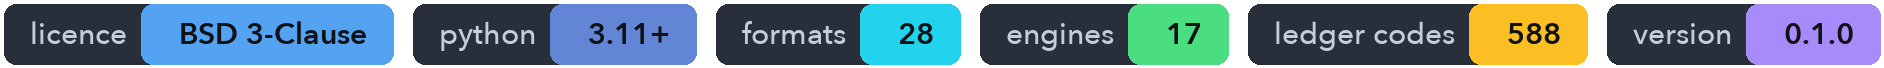
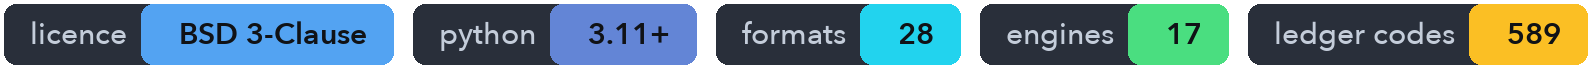
docs for a PyPI audience: install, changelog, contributing, a complete catalogue
The README tells a stranger to pip install lattix, says which two things the base install
does not do and why, and links its images by absolute URL so the PyPI project page renders
them. The tutorial no longer names a local wheel file or claims a scipy dependency the
package does not have. The citation file points at the organisation's repository.

CHANGELOG.md records 0.1.0 and everything since, in Keep a Changelog form; the release
workflow reads a version's section for the GitHub release body. CONTRIBUTING.md is short:
the engine-free suite, the engine variables, the ledger contract, goldens, the battery, and
that engine bugs go upstream.

The fidelity catalogue scanner now recognises a ledger entry built directly by keyword,
which is how the thin-gap RF lens records itself; that code was the one real code missing
from docs/fidelity.md, and the catalogue is complete at 589 change codes plus OK. The
README's label strip is drawn by tools/readme_badges.py from the registries and the
catalogue, so its numbers cannot drift from the code.

diff --git a/tools/readme_badges.py b/tools/readme_badges.py
@@ -1,0 +1,92 @@
+"""Draw the README's label strip from the code itself, so the numbers on it cannot go stale.
+
+    python tools/readme_badges.py            # writes docs/assets/readme-badges.png
+
+The counts come from the format registry, the oracle registry and the fidelity catalogue; the
+licence and the Python floor come from pyproject.toml. No external badge service is involved.
+"""
+from __future__ import annotations
+
+import importlib
+import pkgutil
+import sys
+import tomllib
+from pathlib import Path
+
+from PIL import Image, ImageDraw, ImageFont
+
+ROOT = Path(__file__).resolve().parents[1]
+OUT = ROOT / "docs" / "assets" / "readme-badges.png"
+SS = 2                                                     # drawn at twice the size, for crisp text
+
+INK = (196, 205, 218)
+VALUE_INK = (16, 18, 22)
+PLATE = (41, 47, 58)
+BLUE = (83, 163, 242)
+CYAN = (34, 211, 238)
+GREEN = (74, 222, 128)
+AMBER = (251, 191, 36)
+INDIGO = (99, 133, 214)
+
+
+def _font(size: int, bold: bool):
+    """The project's display face where it exists, else a portable fallback."""
+    px = size * SS
+    for path, index in (("/System/Library/Fonts/Avenir Next.ttc", 2 if bold else 5),):
+        try:
+            return ImageFont.truetype(path, px, index=index)
+        except OSError:
+            pass
+    try:
+        import matplotlib
+        base = Path(matplotlib.get_data_path()) / "fonts" / "ttf"
+        return ImageFont.truetype(str(base / ("DejaVuSans-Bold.ttf" if bold else "DejaVuSans.ttf")), px)
+    except Exception:  # noqa: BLE001
+        return ImageFont.load_default()
+
+
+def facts() -> list[tuple[str, str, tuple[int, int, int]]]:
+    sys.path.insert(0, str(ROOT))
+    project = tomllib.loads((ROOT / "pyproject.toml").read_text())["project"]
+    import lattix.oracles as oracles_pkg
+    from lattix.formats.base import FORMATS
+    for m in pkgutil.iter_modules(oracles_pkg.__path__):
+        try:
+            importlib.import_module(f"lattix.oracles.{m.name}")
+        except Exception:  # noqa: BLE001  (an engine's optional dependency may be missing here)
+            pass
+    from lattix.fidelity_catalog import scan
+    from lattix.oracles.base import _REGISTRY
+    codes = len([c for c in scan() if c != "OK"])
+    licence = project["license"] if isinstance(project["license"], str) else project["license"]["text"]
+    licence = {"BSD-3-Clause": "BSD 3-Clause"}.get(licence, licence)
+    python = project["requires-python"].replace(">=", "") + "+"
+    return [("licence", licence, BLUE), ("python", python, INDIGO), ("formats", str(len(FORMATS)), CYAN),
+            ("engines", str(len(_REGISTRY)), GREEN), ("ledger codes", str(codes), AMBER)]
+
+
+def draw(badges) -> Image.Image:
+    fl, fv = _font(15, False), _font(15, True)
+    probe = ImageDraw.Draw(Image.new("RGB", (8, 8)))
+    width = lambda s, f: probe.textbbox((0, 0), s, font=f)[2] / SS      # noqa: E731
+    H, PADX, GAP, R = 30, 13, 10, 6
+    pieces = [(lab, val, col, width(lab, fl) + 2 * PADX, width(val, fv) + 2 * PADX) for lab, val, col in badges]
+    total = sum(wl + wv for _, _, _, wl, wv in pieces) + GAP * (len(pieces) - 1)
+    im = Image.new("RGBA", (int((total + 4) * SS), int((H + 4) * SS)), (0, 0, 0, 0))
+    d = ImageDraw.Draw(im)
+    x = 2.0
+    for lab, val, col, wl, wv in pieces:
+        d.rounded_rectangle([x * SS, 2 * SS, (x + wl + wv) * SS, (2 + H) * SS], radius=R * SS, fill=PLATE + (255,))
+        d.rounded_rectangle([(x + wl - R) * SS, 2 * SS, (x + wl + wv) * SS, (2 + H) * SS], radius=R * SS,
+                            fill=col + (255,))
+        d.rectangle([(x + wl) * SS, 2 * SS, (x + wl + R) * SS, (2 + H) * SS], fill=col + (255,))
+        d.text(((x + wl / 2) * SS, (2 + H / 2) * SS), lab, font=fl, fill=INK + (255,), anchor="mm")
+        d.text(((x + wl + wv / 2) * SS, (2 + H / 2) * SS), val, font=fv, fill=VALUE_INK + (255,), anchor="mm")
+        x += wl + wv + GAP
+    return im
+
+
+if __name__ == "__main__":
+    badges = facts()
+    draw(badges).save(OUT, optimize=True)
+    print(OUT.relative_to(ROOT), " ".join(f"{lab}={val}" for lab, val, _ in badges))

diff --git a/lattix/fidelity_catalog.py b/lattix/fidelity_catalog.py
@@ -73,6 +73,8 @@ _BUILTINS: dict[str, _Sig] = {
     "add": _Sig(cls_arg=0, code_arg=1, msg_arg=2),
     # the writers' capability tables: Rule(target, cls="EXACT", code="OK", message="")
     "Rule": _Sig(cls_arg=1, cls_default="EXACT", code_arg=2, code_default="OK", msg_arg=3),
+    # a ledger entry built directly, by keyword: FidelityEntry(element=…, kind=…, cls=…, code=…, message=…)
+    "FidelityEntry": _Sig(cls_arg=None, code_arg=None, msg_arg=None),
 }
 
 

diff --git a/CHANGELOG.md b/CHANGELOG.md
@@ -1,0 +1,74 @@
+# Changelog
+
+All notable changes to lattix are recorded here. The format follows
+[Keep a Changelog](https://keepachangelog.com/en/1.1.0/), and versions follow
+[PEP 440](https://peps.python.org/pep-0440/). Release candidates rehearse a version on TestPyPI
+and are listed under the version they rehearse.
+
+## [Unreleased]
+
+### Added
+- SciBmad (Beamlines.jl) as a format and an engine, with a pure Python reader for the Julia
+  lattice subset and a writer whose conventions were measured against BeamTracking.
+- The xsuite completion: every xtrack element class, knobs and environments, and a MAD-NG writer.
+- LightWin as a second engine with TraceWin semantics.
+- Cheetah LatticeJSON, PyORBIT3 linac XML, IMPACT-T, Ocelot lattice modules, DYNAC decks,
+  Synergia lattice JSON and OPAL-T decks, each with a reader, a writer and, where the code is
+  freely runnable, an engine adapter.
+- The Bmad bridge: Astra, GPT, CSRtrack, Merlin++, SLICKTRACK, SAD, SXF and Accelerator Toolkit
+  through the converters that ship with Bmad. These need a Bmad installation.
+- The cross-format battery (`lattix crossval`): every registered deck written to every format that
+  can hold it, read back, and run through the engines on both ends.
+- The delta energy mode for constant-momentum targets (MAD-X, MAD8, xtrack, SciBmad), with the
+  phase slip a fixed reference velocity implies written into every cavity and undone on reading.
+- `lattix ui`, a browser workbench: a beam-line synoptic and floor plan, per-element inspection,
+  before-and-after alignment of a translation, and engine validation with the battery's verdict.
+- Two public bend decks with pole faces, a negative-angle bend and vertical bends, asserted in
+  continuous integration across MAD-X, Bmad, Elegant, xtrack, ImpactX and IMPACT-Z.
+- The engine verdict explains itself: every pair names the ledger codes that changed the optics
+  and the measured engine limits that cap its tier.
+- A version-aware HELIX oracle: it reads the checkout's git ancestry and reports whether the dipole
+  fixes it depends on are present, so the battery holds HELIX to the strict tier on a tree that has
+  them and to a report-only rule on one that does not.
+- A constant-momentum limit: engines that keep one reference momentum are not run on a line that
+  gains more than a factor of two, and the verdict says so.
+- Packaging for PyPI: the Julia worker ships in the wheel, the metadata carries classifiers,
+  keywords and project URLs, and the licence is declared as a PEP 639 expression.
+
+### Changed
+- Bmad pitch planes: `x_pitch` is a rotation about y (the IR `y_rot`) and `y_pitch` is `-x_rot`,
+  matching Elegant, PALS and MAD8. A Bmad round trip hid the earlier plane swap.
+- The SciBmad reader honours a reference carried on a leading `Marker`, the form HELIX's examples
+  and Bmad's own converter write, with explicit read options winning field by field.
+- The HELIX oracle routes MAD-X, MAD8 and Elegant decks through lattix's reader and TraceWin
+  writer, because HELIX's own MAD-X parser does not follow `call, file=`.
+- IMPACT-T pole faces on a negative bend follow the mirror of the positive bend; the oracle resumes
+  after a missed dump and reports a non-finite tail without a map instead of dropping it.
+- Engines are found through environment variables only (`HELIX_ROOT`, `TRACEWIN_EXE`,
+  `LATTIX_DYNAC_EXE`, `LATTIX_SYNERGIA_ROOT`); the package no longer carries any machine's paths.
+- The sample decks are found through `LATTIX_PUBLIC_DECKS` when the package is installed from a
+  wheel; a checkout needs nothing.
+- The README groups formats by heritage rather than by what each code can simulate, after the
+  ImpactX maintainers pointed out that ImpactX runs rings as well as linacs.
+
+### Fixed
+- Twelve golden files embedded the version banner; every golden comparison now neutralises it.
+- One HELIX comparison test errored on a machine with a HELIX checkout but no scipy; it skips.
+
+### Notes
+- The source distribution contains the package, the licence, the README and the citation file.
+  Tests and documentation are in the repository.
+- Reading MAD-X decks needs `cpymad`, provided by the `oracles` extra.
+
+## [0.1.0] - 2026-09-03
+
+### Added
+- Readers and writers for TraceWin, MAD-X, MAD8 flat, Elegant, Bmad, PALS, ImpactX, IMPACT-Z,
+  FLAME and xtrack, through a code-neutral intermediate representation that mirrors PALS.
+- The fidelity ledger: every element of every conversion marked exact, equivalent, lossy or
+  dropped, with a named code.
+- TraceWin field maps integrated into equivalent cavities and hard-edge magnets.
+- The HELIX adapter, the engine oracles (MAD-X through cpymad, xtrack, Bmad through Tao, Elegant,
+  ImpactX, IMPACT-Z, FLAME, HELIX, TraceWin) and the `lattix validate` comparison of transfer
+  maps block by block.
+- The command line: `convert`, `inspect`, `oracles`, `fingerprint`, `validate`, `report`.

diff --git a/README.md b/README.md
@@ -1,9 +1,9 @@
 <p align="center">
-  <img src="docs/assets/readme-hero.png" alt="lattix: twenty-eight accelerator lattice formats connected through one intermediate representation" width="880">
+  <img src="https://raw.githubusercontent.com/Accel-Toolkit/lattix/main/docs/assets/readme-hero.png" alt="lattix: twenty-eight accelerator lattice formats connected through one intermediate representation" width="880">
 </p>
 
 <p align="center">
-  <img src="docs/assets/readme-badges.png" alt="BSD 3-Clause, Python 3.11 and above, 28 formats, 17 engines, 588 ledger codes, version 0.1.0" width="760">
+  <img src="https://raw.githubusercontent.com/Accel-Toolkit/lattix/main/docs/assets/readme-badges.png" alt="BSD 3-Clause, Python 3.11 and above, 28 formats, 17 engines, 589 ledger codes" width="760">
 </p>
 
 # lattix
@@ -48,7 +48,7 @@ you want in a script. Add `--report out.json` and the whole ledger lands in a fi
 ## Twenty-eight formats
 
 <p align="center">
-  <img src="docs/assets/readme-formats.png" alt="The formats grouped into linac codes, ring codes, the modern Python stack, and the eight reached through Bmad's converters" width="900">
+  <img src="https://raw.githubusercontent.com/Accel-Toolkit/lattix/main/docs/assets/readme-formats.png" alt="The formats grouped into linac codes, ring codes, the modern Python stack, and the eight reached through Bmad's converters" width="900">
 </p>
 
 Twenty of them work in both directions. Six can only be written and two can only be read, which is a
@@ -72,11 +72,11 @@ a Bmad installation present. The other twenty need nothing beyond lattix.
 ## The ledger
 
 <p align="center">
-  <img src="docs/assets/readme-ledger.png" alt="A fidelity ledger: each element marked exact, equivalent, lossy or dropped, with a named code" width="900">
+  <img src="https://raw.githubusercontent.com/Accel-Toolkit/lattix/main/docs/assets/readme-ledger.png" alt="A fidelity ledger: each element marked exact, equivalent, lossy or dropped, with a named code" width="900">
 </p>
 
 Every element in every conversion is marked exact, equivalent, lossy or dropped, and each mark carries a
-named code saying precisely what happened. There are 588 of them, all catalogued in
+named code saying precisely what happened. There are 589 of them, all catalogued in
 [docs/fidelity.md](docs/fidelity.md) with the source line that raises each one.
 
 The distinction matters in practice. `RBEN_CHORD_TO_ARC` is equivalent, meaning the optics survive and
@@ -87,7 +87,7 @@ you got before you run anything.
 ## Checked against the real codes
 
 <p align="center">
-  <img src="docs/assets/readme-validation.png" alt="Thirteen engines compared against MAD-X on one bend line, agreement plotted on a logarithmic scale" width="900">
+  <img src="https://raw.githubusercontent.com/Accel-Toolkit/lattix/main/docs/assets/readme-validation.png" alt="Thirteen engines compared against MAD-X on one bend line, agreement plotted on a logarithmic scale" width="900">
 </p>
 
 lattix does not take its own word for it. The same lattice is written out for as many of the
@@ -120,13 +120,16 @@ Full detail, with the measurement behind each one, is in [docs/oracles.md](docs/
 ## Install
 
 ```bash
-pip install -e .                 # numpy, pydantic, lark and pyyaml, nothing else
-pip install -e ".[oracles]"      # adds cpymad, xtrack and friends for validation
+pip install lattix                 # numpy, pydantic, lark and pyyaml, nothing else
+pip install "lattix[oracles]"      # adds cpymad, xtrack and friends for validation
 ```
 
-Requires Python 3.11 or newer. The optional engine extras stay optional on purpose: several
-simulation codes are GPL, and lattix keeps them at arm's length by running them as separate
-processes, which is what lets the translator itself stay BSD licensed.
+Requires Python 3.11 or newer. Two things the base install does not do, on purpose. Reading a
+MAD-X deck runs MAD-X itself to evaluate it, which is what makes that reader exact, so it needs
+`cpymad` from the `oracles` extra. And the eight formats reached through Bmad's converters need a
+Bmad installation. The optional engine extras stay optional because several simulation codes are
+GPL, and lattix keeps them at arm's length by running them as separate processes, which is what
+lets the translator itself stay BSD licensed.
 
 Two conda environments cover the engines that are not pip installable. `environment-ci.yml` builds
 the env used by continuous integration, with Elegant, ImpactX, IMPACT-Z and cpymad.

diff --git a/CONTRIBUTING.md b/CONTRIBUTING.md
@@ -1,0 +1,65 @@
+# Contributing
+
+Thank you for looking. lattix is small enough that the whole of it can be understood in an
+afternoon, and the rules below are what keep it that way.
+
+## Setting up
+
+```bash
+git clone https://github.com/Accel-Toolkit/lattix.git
+cd lattix
+pip install -e ".[dev]"
+pytest -m "not corpus and not slow and not crossval"     # the engine-free suite, about ninety seconds
+```
+
+The engine-free suite is what continuous integration runs on every push, and it must pass before
+anything else is worth discussing. Tests that need a simulation code carry an `oracle_<engine>`
+marker and skip when that engine is not installed, so a clean machine passes the whole selection.
+
+## Engines
+
+The engines are found through environment variables, never through a fixed path. Set the ones you
+have: `HELIX_ROOT`, `TRACEWIN_EXE`, `LATTIX_DYNAC_EXE`, `LATTIX_SYNERGIA_ROOT`, `LATTIX_CODES_DIR`
+(a local mirror of the upstream repositories some tests compare against), and the ones listed in
+`docs/oracles.md`. `lattix oracles` reports which engines the current machine can run.
+
+`environment-ci.yml` builds a conda environment with every freely installable engine, and
+`environment-bmad.yml` builds the Bmad and Tao environment the Bmad adapter runs out of process.
+
+## The ledger is the contract
+
+Every element that a writer cannot carry across exactly must record a ledger entry with a named
+code, a class (`EQUIVALENT`, `LOSSY` or `DROPPED`) and a message that says what changed and why.
+Nothing is ever dropped silently. New codes are picked up by `python -m lattix.fidelity_catalog
+--markdown`, which regenerates the catalogue block in `docs/fidelity.md`; a test fails if the
+documentation and the code disagree.
+
+## Golden files and the battery
+
+Writer tests compare against golden files under `tests/golden/`. When an intentional change moves
+a golden, regenerate it with `LATTIX_UPDATE_GOLDEN=1 pytest <that test>` and commit the result
+with an explanation of why the output changed. The version banner is neutralised, so a release
+never moves a golden on its own.
+
+The cross-format battery, `pytest tests/crossval -m crossval`, writes every registered deck to
+every format that can hold it, reads it back, and runs both ends through their engines. It is the
+acceptance gate for a new format or a changed convention, and it takes a while.
+
+## Engine bugs go upstream
+
+When the battery shows an engine disagreeing with the others for a reason that lives in the
+engine, lattix records the measurement in `docs/oracles.md`, caps the pair's tier with a rule in
+`lattix/crossval.py::engine_verdict` that names the limit, and the bug is reported to the engine's
+maintainers. lattix does not compensate for another code's bug in its own writer.
+
+## Style
+
+`ruff check lattix tests` must pass; lines are at most 120 characters. Prefer a short, specific
+docstring that says why over a comment that says what. Measured conventions are cited with the
+date and the engine version they were measured on.
+
+## Private data
+
+Nothing from a private accelerator project enters the repository or continuous integration. Public
+sample decks live in `tests/data/public/` with their upstream licence beside them; anything else
+is referenced through `LATTIX_CORPUS_DIR` and never committed.

diff --git a/docs/fidelity.md b/docs/fidelity.md
@@ -69,7 +69,7 @@ records the code.  Reader codes describe what a *source* deck lost on the way in
 codes describe what the *target* format cannot hold.
 
 <!-- BEGIN fidelity-catalog -->
-<!-- generated by `python -m lattix.fidelity_catalog --markdown`; 589 codes: EXACT 20, EQUIVALENT 243, LOSSY 260, DROPPED 66 -->
+<!-- generated by `python -m lattix.fidelity_catalog --markdown`; 590 codes: EXACT 20, EQUIVALENT 243, LOSSY 261, DROPPED 66 -->
 
 ### `lattix/formats`
 
@@ -100,6 +100,8 @@ codes describe what the *target* format cannot hold.
 | `THICK_CAVITY_SPLIT` | EQUIVALENT | thick RF cavity emitted as DRIFT L/2 + thin GAP + DRIFT L/2 | `helix.py` |
 | `THICK_POLE_AS_QUAD_HIGHER_ORDER` | EQUIVALENT | emitted as a HELIX QUAD with g3/g4 (thin split-operator kick) | `helix.py` |
 | `THINLENS_AS_TAYLOR` | EQUIVALENT | HELIX ThinLens stored as its 6x6 kick matrix | `helix.py` +1 |
+| `THIN_CAVITY_NO_RF_FOCUSING` | LOSSY | the target's thin cavity has no transverse RF kick and no matrix element to carry it (k = 1/m dropped) | `base.py` +1 |
+| `THIN_GAP_RF_FOCUSING_AS_MATRIX` | EQUIVALENT | TraceWin thin-gap RF defocusing k = 1/m written as the thin lens '' after the cavity | `base.py` |
 | `VANE_RFQ_GEOMETRY_NOT_CONVERTED` | LOSSY | VaneRFQ vane geometry / cell spans have no IR representation | `helix.py` |
 | `WALK_WARNING` | LOSSY | — | `helix.py` |
 
@@ -144,7 +146,6 @@ codes describe what the *target* format cannot hold.
 | `SUPERPOSITION_SUPERIMPOSED` | EQUIVALENT | overlapping fields written as superimposed Bmad elements | `writer.py` |
 | `TAYLOR_ORDER_TRUNCATED` | LOSSY | Taylor terms above first order (and spin terms) are kept in native['bmad'] but not modelled | `reader.py` +2 |
 | `THICK_MULTIPOLE_AS_THIN` | EQUIVALENT | has l > 0; the IR keeps the length and the integrated strengths (a thin kick at the centre) | `reader.py` |
-| `THIN_CAVITY_NO_RF_FOCUSING` | EQUIVALENT | a zero-length Bmad lcavity applies no transverse RF (pondermotive) kick of its own; the TraceWin thin-gap defocusing R21 = R43 is carried by the 'taylor' lens written after the cavity | `writer.py` |
 | `THIN_CAVITY_TRAVELING_WAVE` | EQUIVALENT | Bmad rejects a zero-length standing-wave lcavity (infinite pondermotive kick); written with l = 0 and cavity_type = traveling_wave, which reproduces dE = V*cos(2*pi*phi0) and the adiabatic damping exactly | `writer.py` |
 | `THIN_MULTIPOLE_LENGTH` | EQUIVALENT | Bmad's 'multipole' is a thin element; the IR length is dropped and the integrated strengths are kept | `writer.py` |
 | `UNSUPPORTED_BMAD_TYPE` | DROPPED | Bmad element type has no IR mapping; kept as a marker | `reader.py` |

diff --git a/docs/tutorial.md b/docs/tutorial.md
@@ -6,13 +6,15 @@ public sample decks in `tests/data/public/helix/` and the output is shown as pri
 ## 1. Install
 
 ```
-$ pip install lattix-0.1.0-py3-none-any.whl        # or: pip install -e .  in a clone
+$ pip install lattix                 # or: pip install -e .  in a clone
+$ pip install "lattix[oracles]"      # adds cpymad, xtrack and friends
 $ lattix --version
 ```
 
-The package needs only numpy, scipy, pydantic, lark and pyyaml.  Readers that drive an
-engine need it installed: the MAD-X reader needs `cpymad`, the xtrack adapter needs
-`xtrack`, PALS validation uses `pals-schema`.  The oracle adapters find their engines on
+The package needs only numpy, pydantic, lark and pyyaml.  Readers that drive an engine need it
+installed: the MAD-X reader needs `cpymad` (the `oracles` extra provides it), the xtrack adapter
+needs `xtrack`, PALS validation uses `pals-schema`, and the eight formats reached through Bmad's
+converters need a Bmad installation.  The oracle adapters find their engines on
 `PATH` or through `TRACEWIN_EXE`, `ELEGANT_EXE`, `HELIX_ROOT`, `LATTIX_BMAD_ENV` and friends
 (see [oracles.md](oracles.md)).  `environment-ci.yml` builds a conda environment with
 every free engine.
